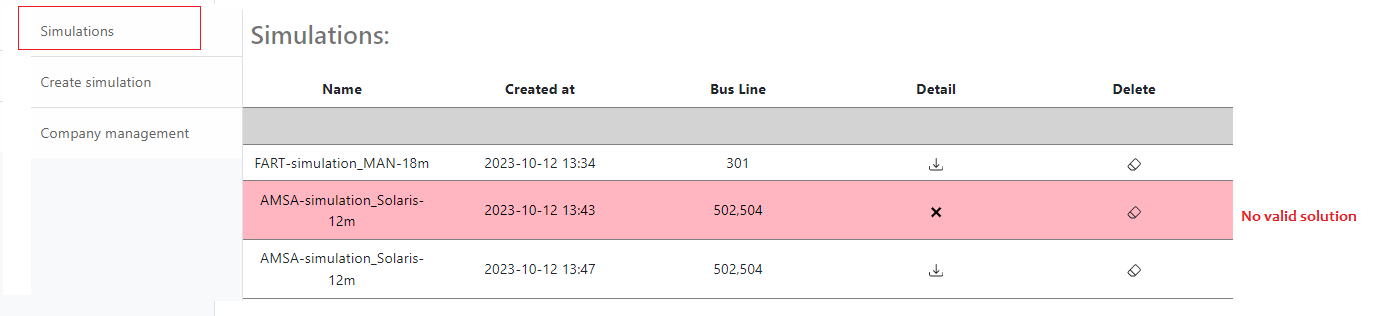
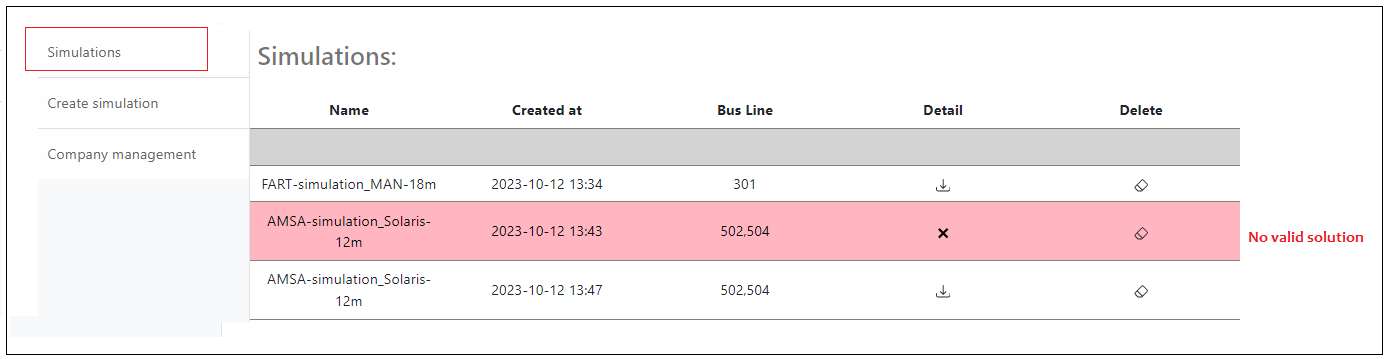
Updated description related to simulation list

diff --git a/README.md b/README.md
@@ -204,18 +204,21 @@ After that, you can simulate by clicking “Launch simulation.”
 
 ## Viewing results
 
-Once the simulation is complete, you will get an email notifying you that your simulation is finished.
+Once the simulation is complete, you get an email notifying you that your simulation has finished. The email also states whether the simulation returned a feasible solution or not.
 
-Saved simulation results can be accessed by clicking “Simulations” on the main menu, as shown in the following image (Figure 11). 
+The results of the completed simulations are stored in the database. You can access the results by clicking “Simulations” on the main menu, as shown in the following image (Figure 10).
 If a valid solution (a feasible solution) is not found, those instances will be highlighted as seen in the figure. In such a case, the user is advised to ensure all inputs are correct, 
 especially if the trip timetable does not have discontinuities. Common causes of infeasibility are;
 1.	_Maximum battery size is insufficient_: The user can choose a higher battery pack size or increase the maximum number of battery packs, if possible. 
 2.	_Discontinuous timetables_: If the buses perform empty rides (trips without passengers to relocate the bus to a different station), make sure these trips are also included in the timetable.
 3.	_Unable to fully recharge_: In some cases, with the maximum allowed charging power given, the buses may not be able to recharge fully. If that is the case, try with higher charging power or with the fast charging option.
 
-![Simulations List](https://github.com/supsi-dacd-isaac/pvxte-web/blob/main/docs/img/simulations_list.png)
+<p align="center">
+  <img src="https://github.com/supsi-dacd-isaac/pvxte-web/blob/main/docs/img/simulations_list.png" alt="sim list" width="85%"/>
+</p>
+<p align="center"><em>Figure 10: List of completed simulations. Simulations that did not return a feasible solution are highlighted in red </em></p>
 
-There might be other edge instances that result in infeasibilities that must be evaluated case-by-case with the specific user inputs. 
+There might be other edge instances that result in infeasibility that must be evaluated case-by-case with the specific user inputs. 
 You can access the detailed results (including the option to download raw results files in CSV format). Accessing “details” takes you to the following window.
 
 ![Simulation Detail](https://github.com/supsi-dacd-isaac/pvxte-web/blob/main/docs/img/simulation_detail1.png)
